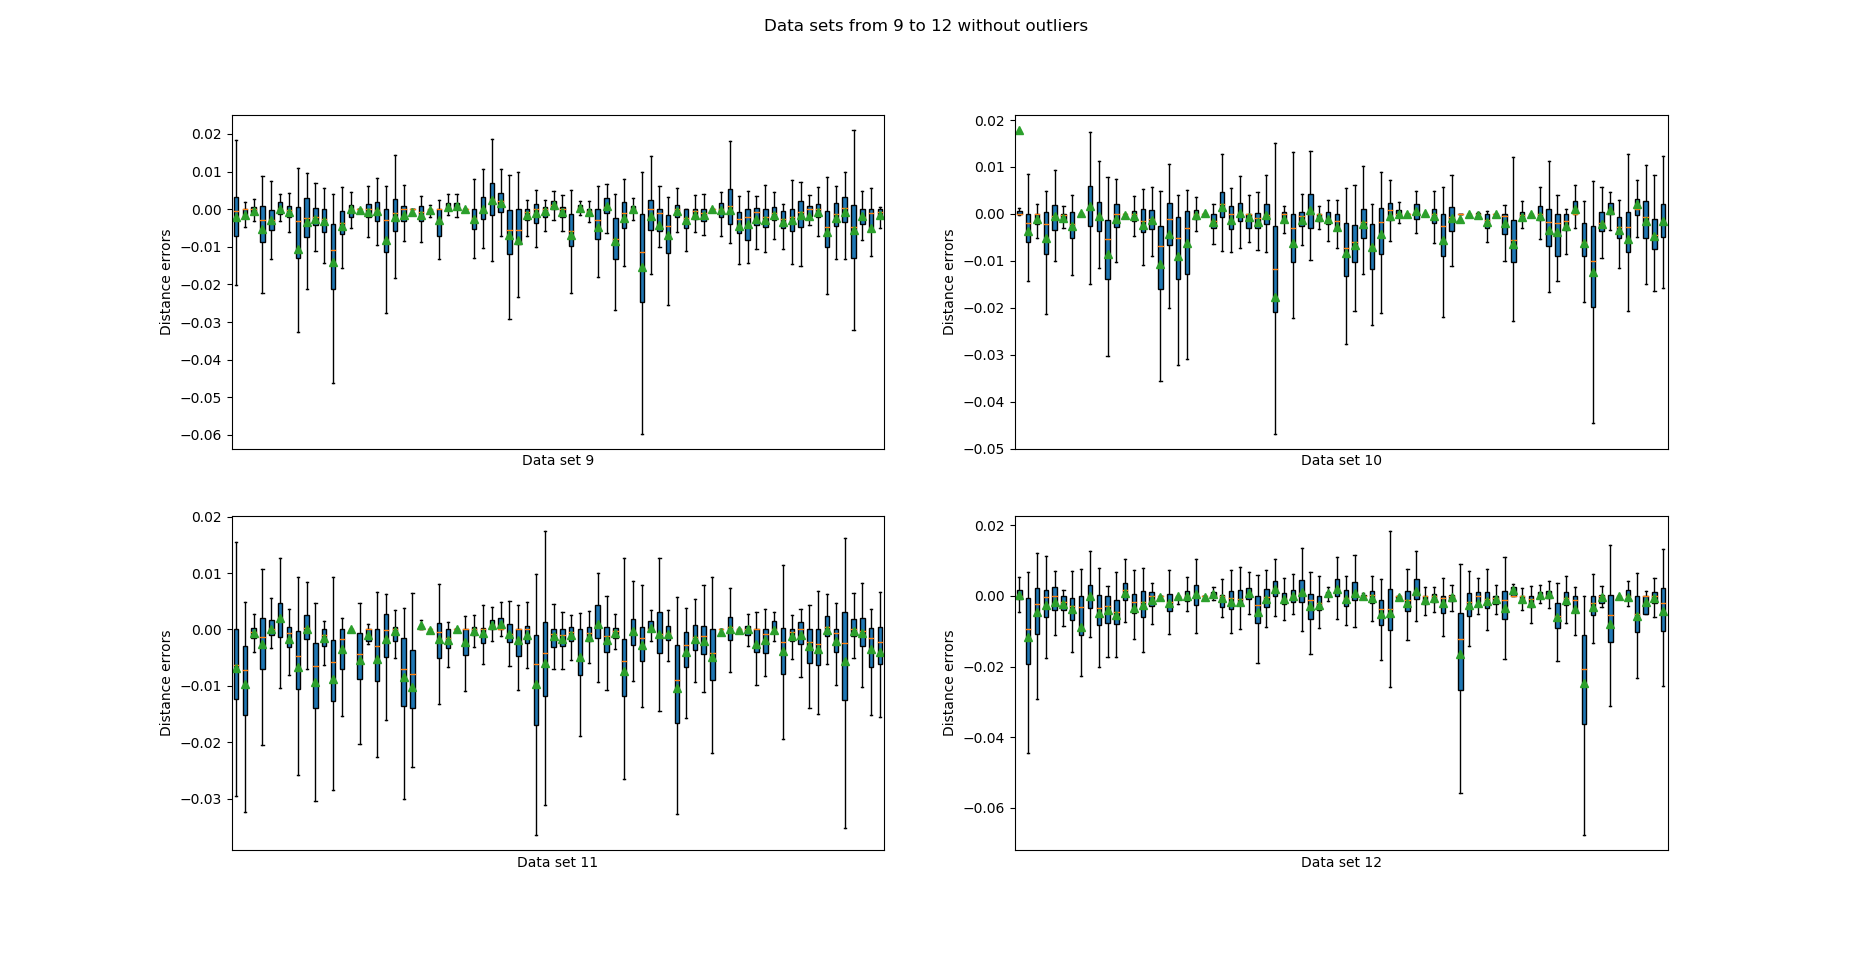
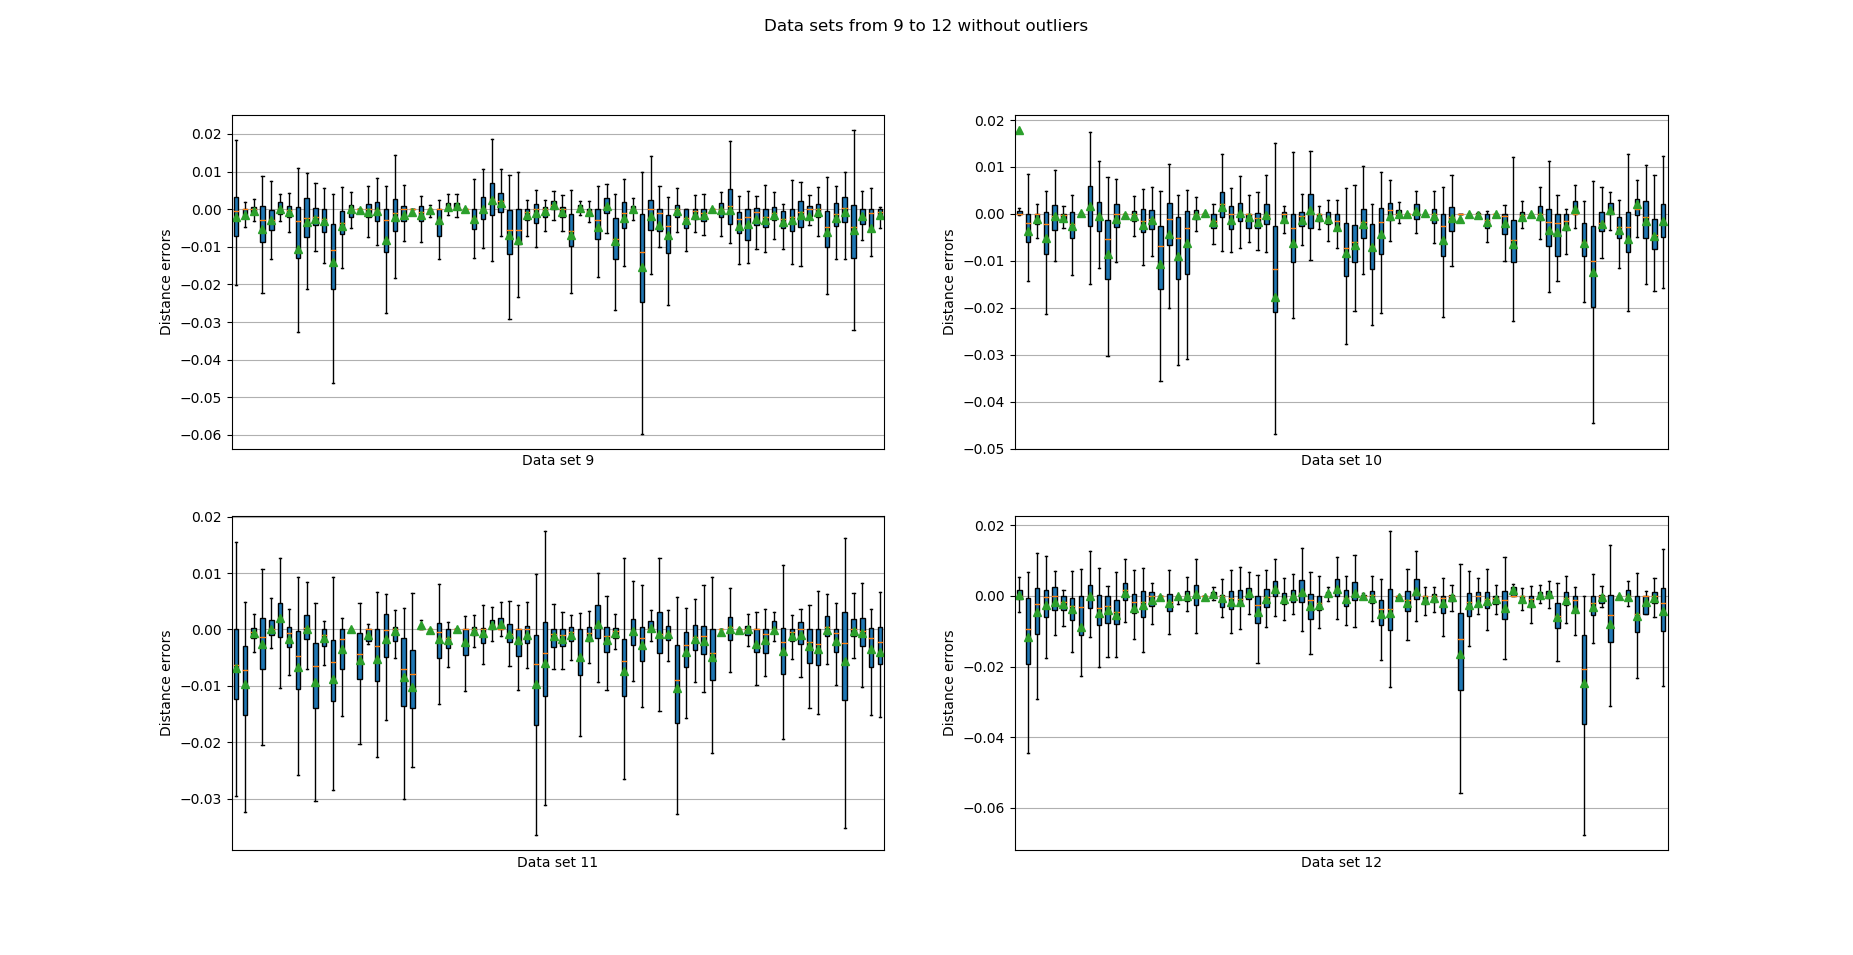
all graphs

diff --git a/qikaiy2_project_1/scripts/graph/gtrcat_graph.py b/qikaiy2_project_1/scripts/graph/gtrcat_graph.py
@@ -91,7 +91,7 @@ for i in range(5):
     plt.figure(i+1)
     plt.figure(figsize=(200,100))
     for j in range(4):
-        plt.subplot(2,2,j+1)
+        haha = plt.subplot(2,2,j+1)
         plt.boxplot(box_array[int((i*4+j)*len(box_array)/20):int(((i*4+j)+1)*len(box_array)/20)],sym = 'o', \
         vert = True,\
         patch_artist = True,\
@@ -103,13 +103,14 @@ for i in range(5):
         plt.xticks([])
         plt.xlabel("Data set "+str((i*4+j)+1))
         plt.ylabel("Distance errors")
+        haha.yaxis.grid(True)
     plt.suptitle("Data sets from " + str(i*4+1) + " to " + str(str(i*4+4)+" without outliers"))
 
 for i in range(5):
     plt.figure(i+6)
     plt.figure(figsize=(200,100))
     for j in range(4):
-        plt.subplot(2,2,j+1)
+        haha = plt.subplot(2,2,j+1)
         plt.boxplot(box_array[int((i*4+j)*len(box_array)/20):int(((i*4+j)+1)*len(box_array)/20)],sym = 'o', \
         vert = True,\
         patch_artist = True,\
@@ -120,6 +121,7 @@ for i in range(5):
         plt.xticks([])
         plt.xlabel("Data set "+str((i*4+j)+1))
         plt.ylabel("Distance errors")
+        haha.yaxis.grid(True)
     plt.suptitle("Data sets from " + str(i*4+1) + " to " + str(str(i*4+4)+" without"))
 
 plt.show()
